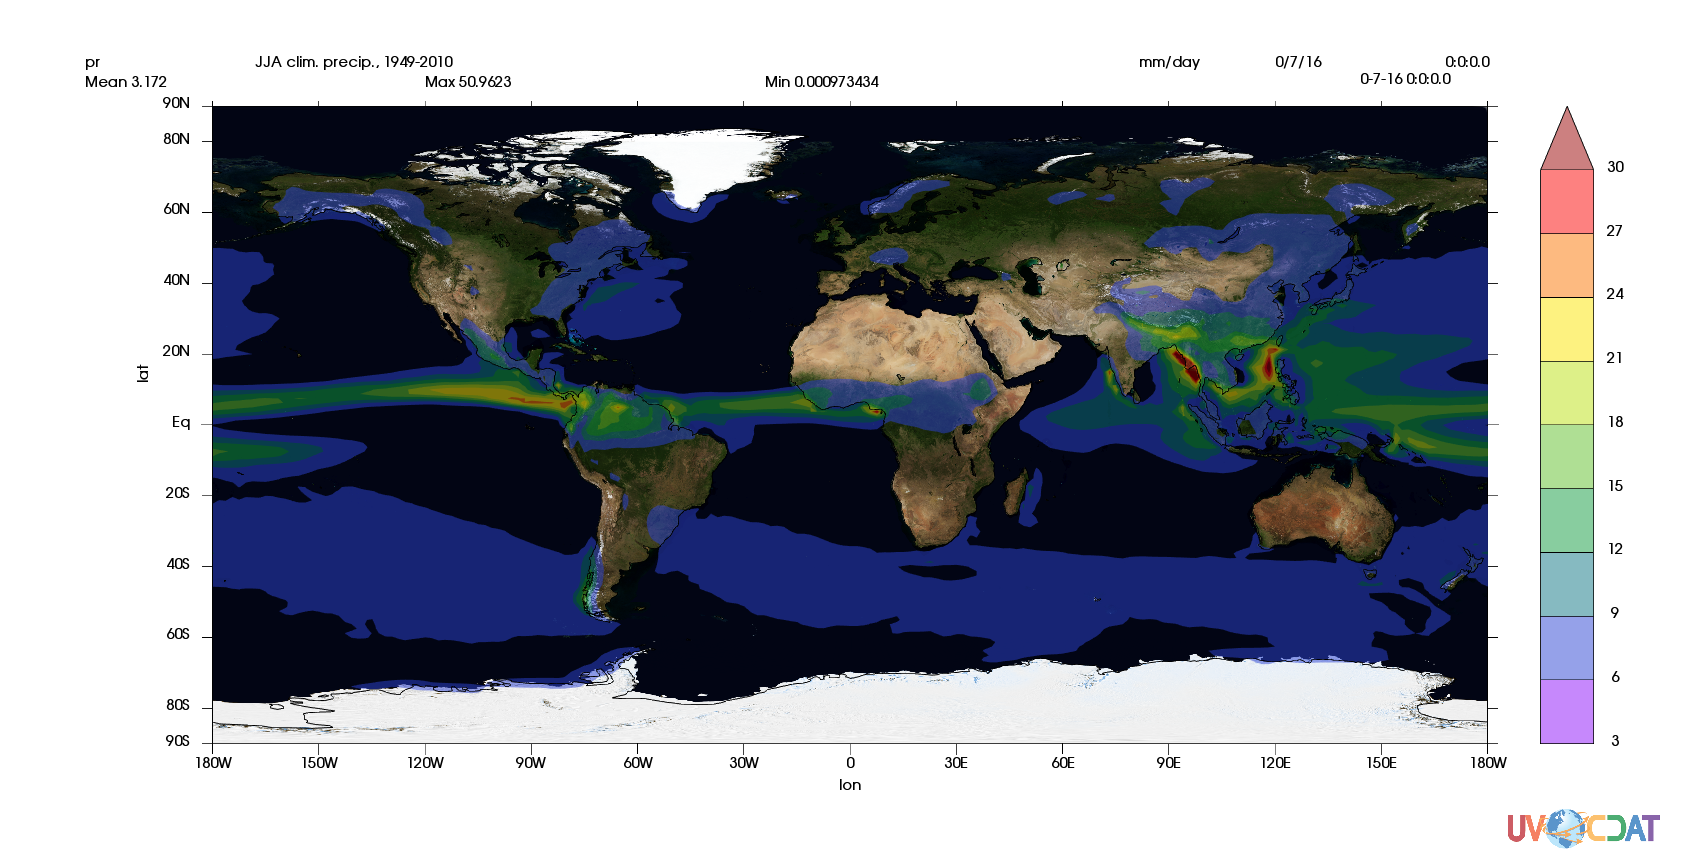
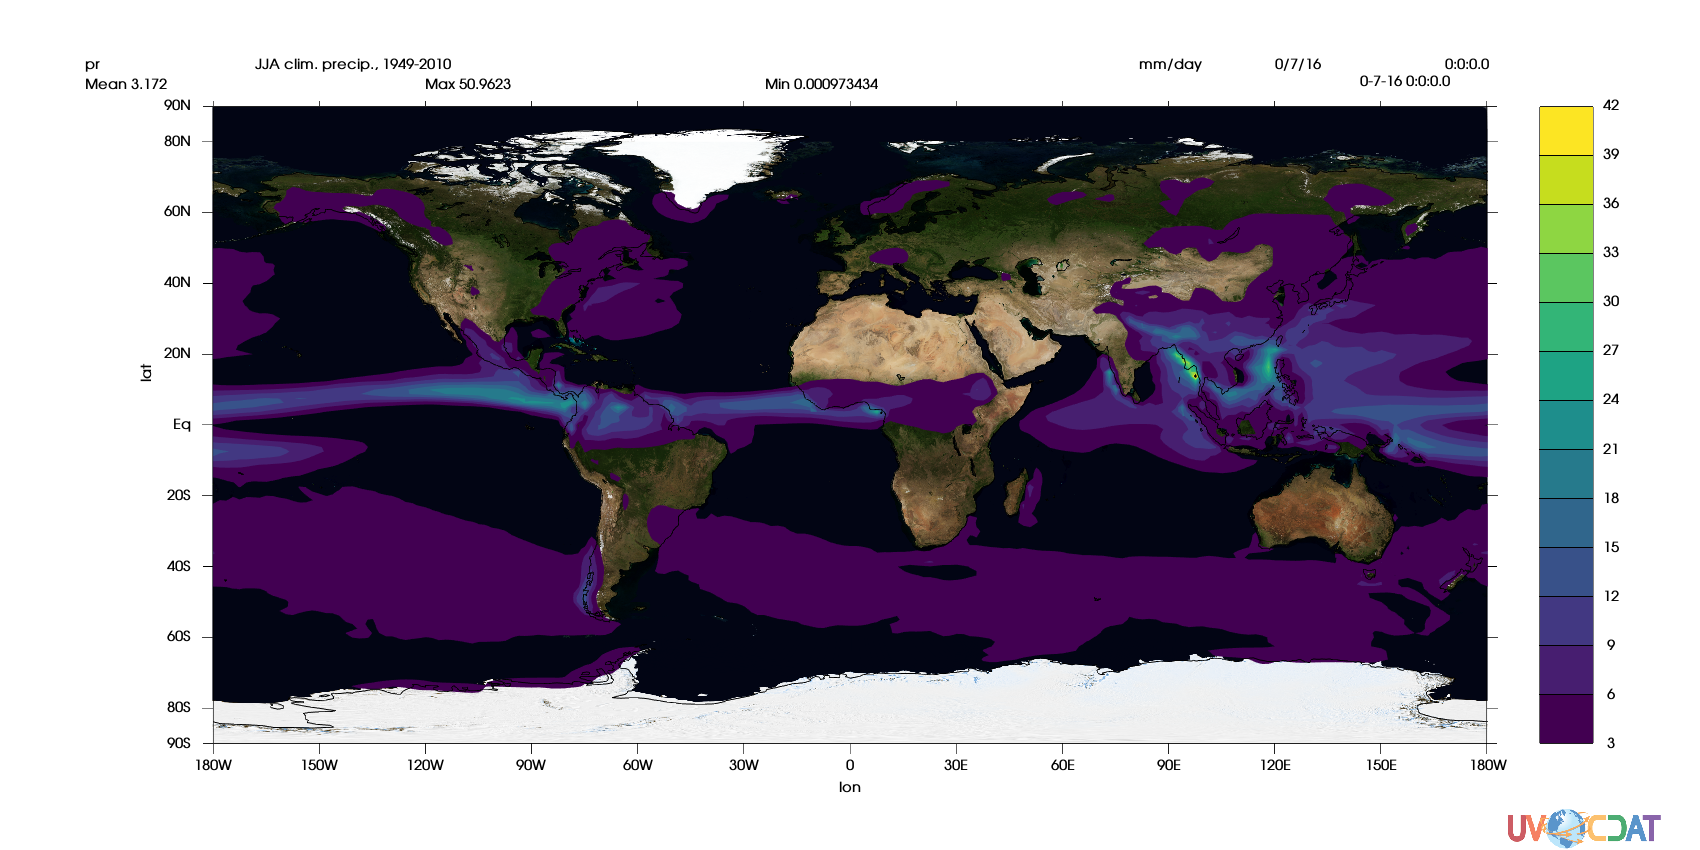
Adjust to uvcdat v2.10

diff --git a/scripts/BlueMarble_pr_jja_clim.py b/scripts/BlueMarble_pr_jja_clim.py
@@ -2,17 +2,24 @@
 # This Python script plots JJA climatology at surface level, which given from one of CMIP5 models
 # It uses NASA's BlueMarble image as background map image
 # 
-# Ji-Woo Lee, LLNL, August 2016
+# Ji-Woo Lee, LLNL, July 2017
 ################################################################################################# 
 
 import vcs
 import cdms2 as cdms
 import cdtime, cdutil
+import urllib
+import MV2
+
+# Option for getting background image
+Blue_marble_download = True
+#Blue_marble_download = False
+
+#Nighttimeimage = True
+Nighttimeimage = False
 
 def overlay_png(canvas, png_path, data, data2=None, gm=None, scale=.75, template=None, continents=1):
 	canvas.open()
-	canvas.put_png_on_canvas(png_path, zoom=scale)
-	canvas.clear()
 	canvas.put_png_on_canvas(png_path, zoom=scale)
 
 	is_portrait = canvas.size < 1
@@ -74,14 +81,8 @@ def overlay_png(canvas, png_path, data, data2=None, gm=None, scale=.75, template
 
 
 if __name__ == "__main__":
-	# The blue marble file I found has an aspect ratio of 2x1, so we'll use that aspect for the canvas
-	canvas = vcs.init(size=2)
 
-	cmap = vcs.createcolormap("my_colormap", "rainbow") #you can specify which colormap you want to copy from in the second argument
-	for i in range(16, 240):
-		r, g, b, _ = cmap.getcolorcell(i)
-		cmap.setcolorcell(i, r, g, b, 50) # You can pick an alpha value that looks nice; 0-100
-	canvas.setcolormap(cmap)
+        # DATA ---
 
 	# Open file
 	odir = '/cmip5_css02/data/cmip5/output1/NIMR-KMA/HadGEM2-AO/historical/mon/atmos/Amon/r1i1p1/pr/1/' # Put your data directory here
@@ -89,7 +90,8 @@ if __name__ == "__main__":
 	f = cdms.open(odir+nc)
 
 	# Load variable
-	d = f('pr',longitude=(-180,180))*86400. # Set longitude range to Blue Marble image, kg/m2/s1 to mm/day
+	d = f('pr',longitude=(-180,180))
+        d = MV2.multiply(d,86400.) # Set longitude range to Blue Marble image, kg/m2/s1 to mm/day
 	d.units='mm/day'
 
 	# Climatology calculation
@@ -103,28 +105,32 @@ if __name__ == "__main__":
 	d_jja.id = 'pr'
 	d_jja.model = 'HadGEM2-AO'
 
+        # PLOT ---
+
+	# The blue marble file I found has an aspect ratio of 2x1, so we'll use that aspect for the canvas
+	canvas = vcs.init(size=2)
+
 	# Set isofill level
 	isofill = vcs.createisofill()
-	isofill.levels = [3, 6, 9, 12, 15, 18, 21, 24, 27, 30]
-	isofill.ext_2 ="y"
+	isofill.levels = [3, 6, 9, 12, 15, 18, 21, 24, 27, 30, 33, 36, 39, 42]
+        colors = vcs.getcolors(isofill.levels)
+        isofill.fillareacolors = colors
+        isofill.missing = (0,0,0,0)
 
-        # Option for dowonloading background image
-        Blue_marble_download = True
-        #Blue_marble_download = False
 
         if Blue_marble_download:
-		# Download background image for map; http://visibleearth.nasa.gov/
-        	bg_image_link = 'http://eoimages.gsfc.nasa.gov/images/imagerecords/74000/74393/world.topo.200407.3x5400x2700.png'
-        	#bg_image_link = 'http://eoimages.gsfc.nasa.gov/images/imagerecords/79000/79765/dnb_land_ocean_ice.2012.3600x1800.jpg'
-  		import urllib
-		bg_image = 'bg_image_blue_marble.png'
-        	bg_image_frame = open(bg_image,'wb')
-        	bg_image_frame.write(urllib.urlopen(bg_image_link).read())
-        	bg_image_frame.close() 
-        
+                # Download background image for map; http://visibleearth.nasa.gov/
+                bg_image_link = 'http://eoimages.gsfc.nasa.gov/images/imagerecords/74000/74393/world.topo.200407.3x5400x2700.png'
+                if Nighttimeimage:
+                        bg_image_link = 'http://eoimages.gsfc.nasa.gov/images/imagerecords/79000/79765/dnb_land_ocean_ice.2012.3600x1800.jpg'
+                bg_image = 'bg_image_blue_marble.png'
+                bg_image_frame = open(bg_image,'wb')
+                bg_image_frame.write(urllib.urlopen(bg_image_link).read())
+                bg_image_frame.close()
+
         else:
-		# Substitute your path to blue_marble.png
-        	bg_image = './world.topo.200407.3x5400x2700.png'
+                # Substitute your path to blue_marble.png
+                bg_image = './bg_image_blue_marble.png'
 
 	overlay_png(canvas, bg_image, d_jja, gm=isofill)
 	canvas.png("BlueMarble_pr_jja_clim")
